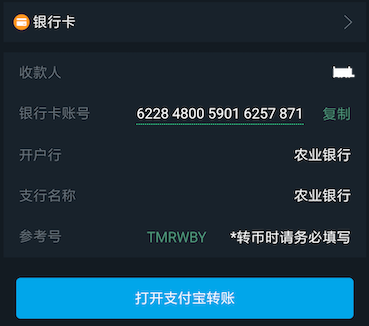
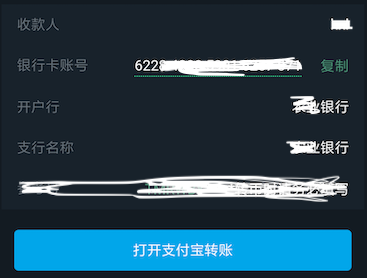
h5-link

diff --git a/docs/blog/HTML/h5-link-to-app.md b/docs/blog/HTML/h5-link-to-app.md
@@ -52,7 +52,7 @@ url=HTTPS://QR.ALIPAY.COM/XXXXXXXX    // 支付宝收款二维码地址
 使用下面的链接：
 
 ```
-alipays://platformapi/startapp?appId=09999988&actionType=toCard&sourceId=bill&cardNo=6228480059016257871&bankAccount=xxx&money=0.01&amount=0.01&bankMark=ABC&bankName=xxx
+alipays://platformapi/startapp?appId=09999988&actionType=toCard&sourceId=bill&cardNo=6228xxxxxxxxxxxxxxx&bankAccount=xxx&money=0.01&amount=0.01&bankMark=ABC&bankName=xxx
 ```
 
 参数：
@@ -61,7 +61,7 @@ alipays://platformapi/startapp?appId=09999988&actionType=toCard&sourceId=bill&ca
 appId=09999988   // 应用ID - 默认
 actionType=toCard // 转账类型 toCard - 到银行卡
 sourceId=bill // ？
-cardNo=6228480059016257871 // 银行卡号
+cardNo=6228xxxxxxxxxxxxxxx // 银行卡号
 bankAccount=xxx // 银行账户
 money=0.01 // 转账金额
 amount=0.01 // 转账额度
@@ -81,7 +81,7 @@ bankName=xxx // 银行名称
 后来发现去掉参数` bankAccount `就不会有警告了：
 
 ```
-alipays://platformapi/startapp?appId=09999988&actionType=toCard&sourceId=bill&cardNo=6228480059016257871&money=0.01&amount=0.01&bankMark=ABC&bankName=xxx
+alipays://platformapi/startapp?appId=09999988&actionType=toCard&sourceId=bill&cardNo=6228xxxxxxxxxxxxxxx&money=0.01&amount=0.01&bankMark=ABC&bankName=xxx
 ```
 
 生成二维码如下：
@@ -100,7 +100,7 @@ alipays://platformapi/startapp?appId=09999988&actionType=toCard&sourceId=bill&ca
 也就是说在移动端打开支付宝转账到银行卡使用下面的链接：
 
 ```
-alipays://platformapi/startapp?appId=09999988&actionType=toCard&sourceId=bill&cardNo=6228480059016257871&money=0.01&amount=0.01&bankMark=ABC&bankName=xxx
+alipays://platformapi/startapp?appId=09999988&actionType=toCard&sourceId=bill&cardNo=6228xxxxxxxxxxxxxxx&money=0.01&amount=0.01&bankMark=ABC&bankName=xxx
 ```
 
 就只能通过直接扫二维码才有用，不能直接使用` a `标签，而且这也不符合我们的场景。
@@ -116,7 +116,7 @@ alipays://platformapi/startapp?appId=09999988&actionType=toCard&sourceId=bill&ca
 这一步其实就是第一种方式：
 
 ```js
-const qrcode = 'alipays://platformapi/startapp?appId=09999988&actionType=toCard&sourceId=bill&cardNo=6228480059016257871&money=0.01&amount=0.01&bankMark=ABC&bankName=xxx'
+const qrcode = 'alipays://platformapi/startapp?appId=09999988&actionType=toCard&sourceId=bill&cardNo=6228xxxxxxxxxxxxxxx&money=0.01&amount=0.01&bankMark=ABC&bankName=xxx'
 ```
 
 第二步：获得二维码地址
@@ -166,7 +166,7 @@ const url = 'http://image.baidu.com/qrcode.jpg'
 - 第一步：设置二维码内容
 
 ```js
-const qrcode = 'alipays://platformapi/startapp?appId=09999988&actionType=toCard&sourceId=bill&cardNo=6228480059016257871&money=0.01&amount=0.01&bankMark=ABC&bankName=xxx'
+const qrcode = 'alipays://platformapi/startapp?appId=09999988&actionType=toCard&sourceId=bill&cardNo=6228xxxxxxxxxxxxxxx&money=0.01&amount=0.01&bankMark=ABC&bankName=xxx'
 ```
 
 - 第二步：获得二维码地址
